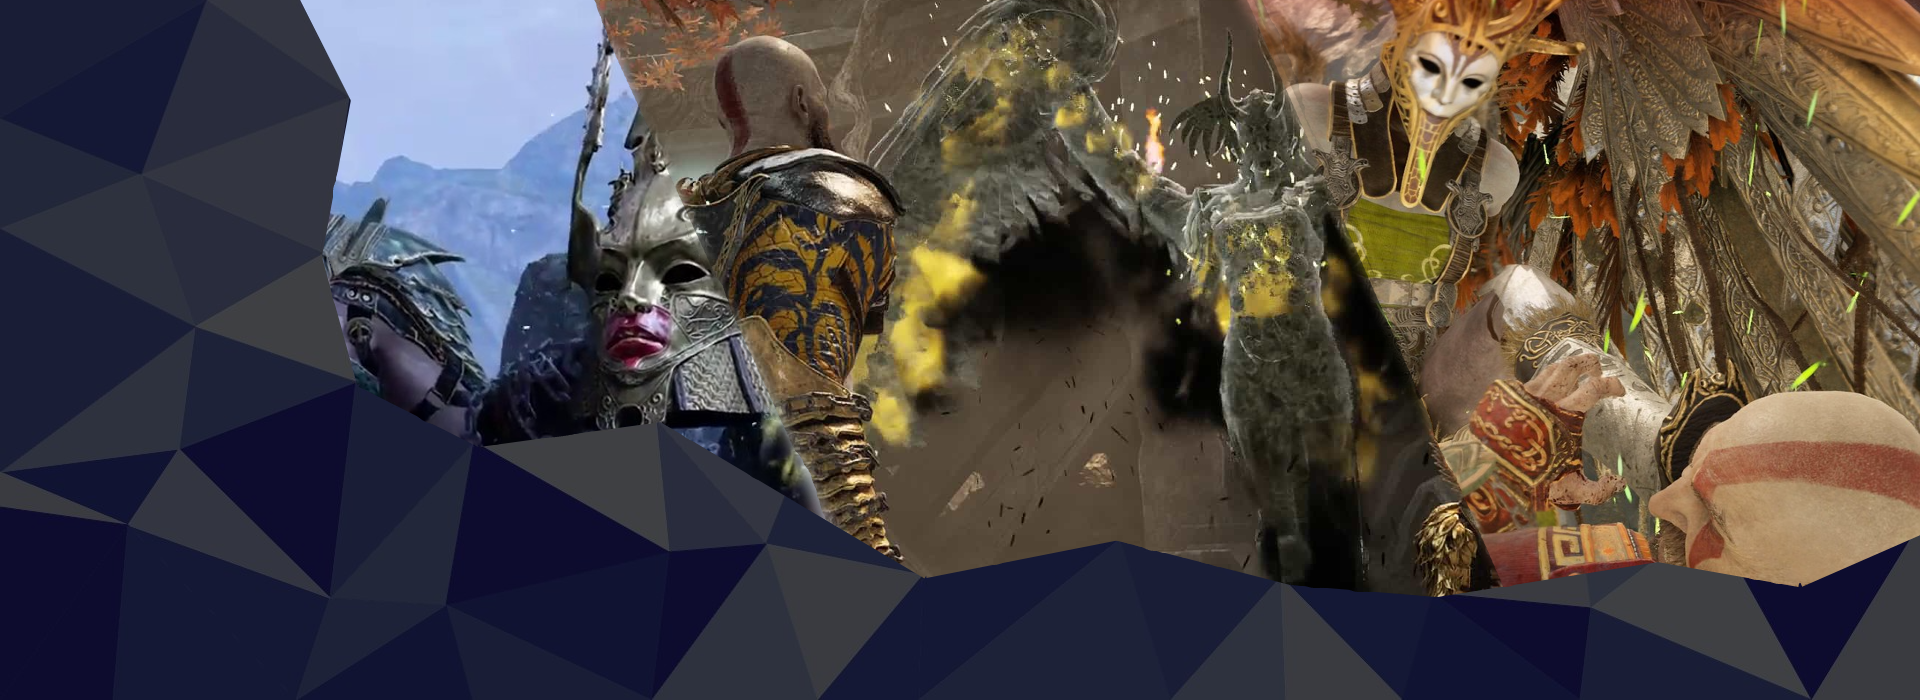
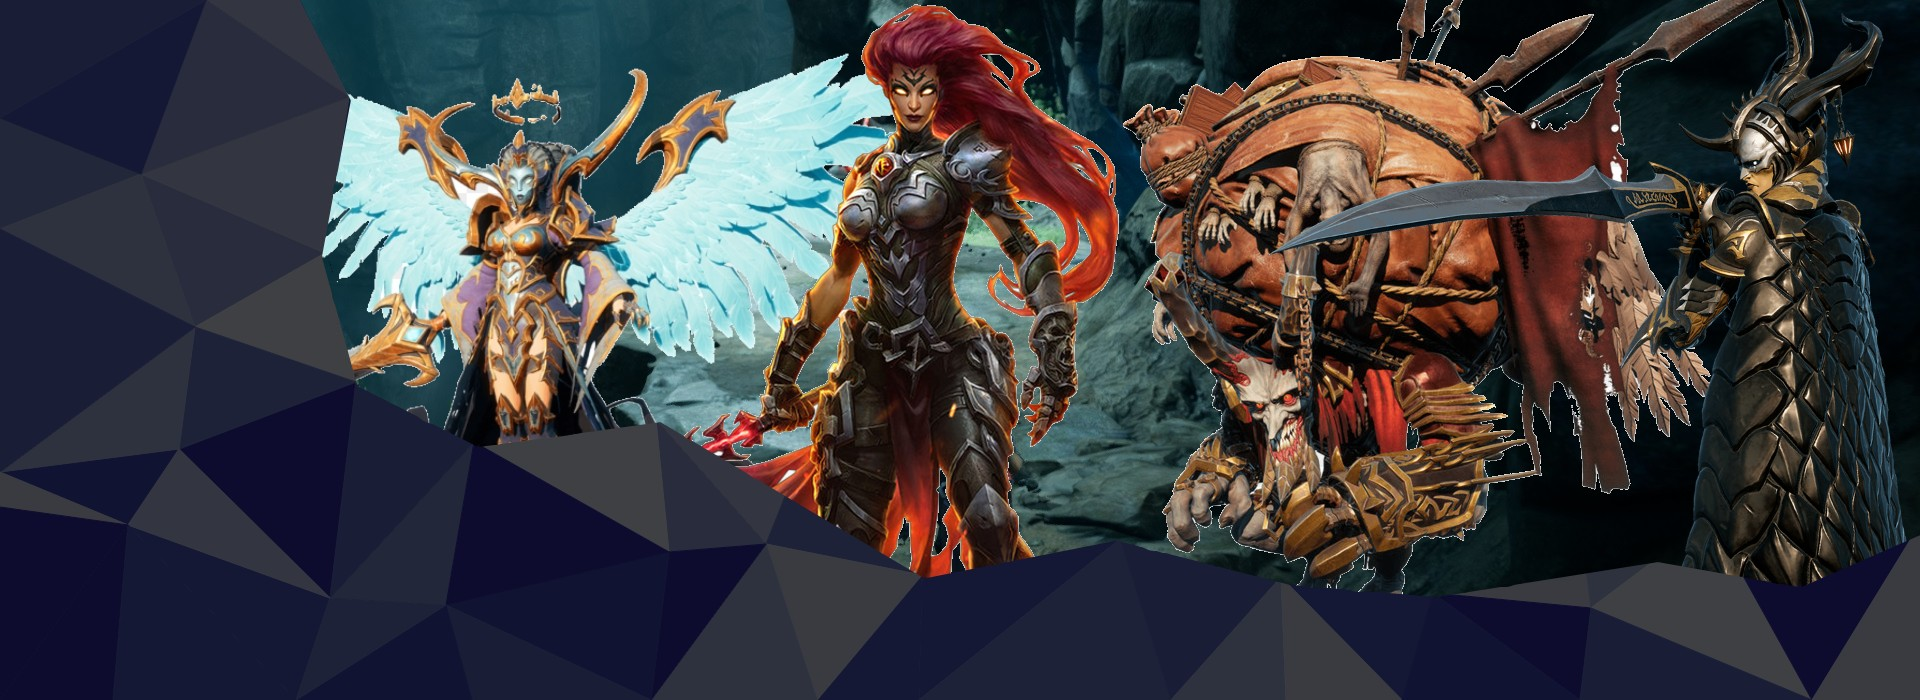
actualizacion 14/4

diff --git a/index.html b/index.html
@@ -67,8 +67,8 @@
                     <div class="carousel-item mislider">
                         <img src="multimedia/images/slider/slider1.jpg" class="d-block w-100" alt="">
                         <div class="carousel-caption d-md-block">
-                            <h3 class="text-tipo2">God Of War</h3>
-                            <p class="text-tipo2">Nuevos videos Derrotando Valkirias</p>
+                            <h3 class="text-tipo2">Darksiders 3</h3>
+                            <p class="text-tipo2">Nuevos videos: Furia derrotando los pecados </p>
                             <a href="pages/guias.html"><button class="boton">Ver videos</button></a>
                         </div>
                     </div>          
